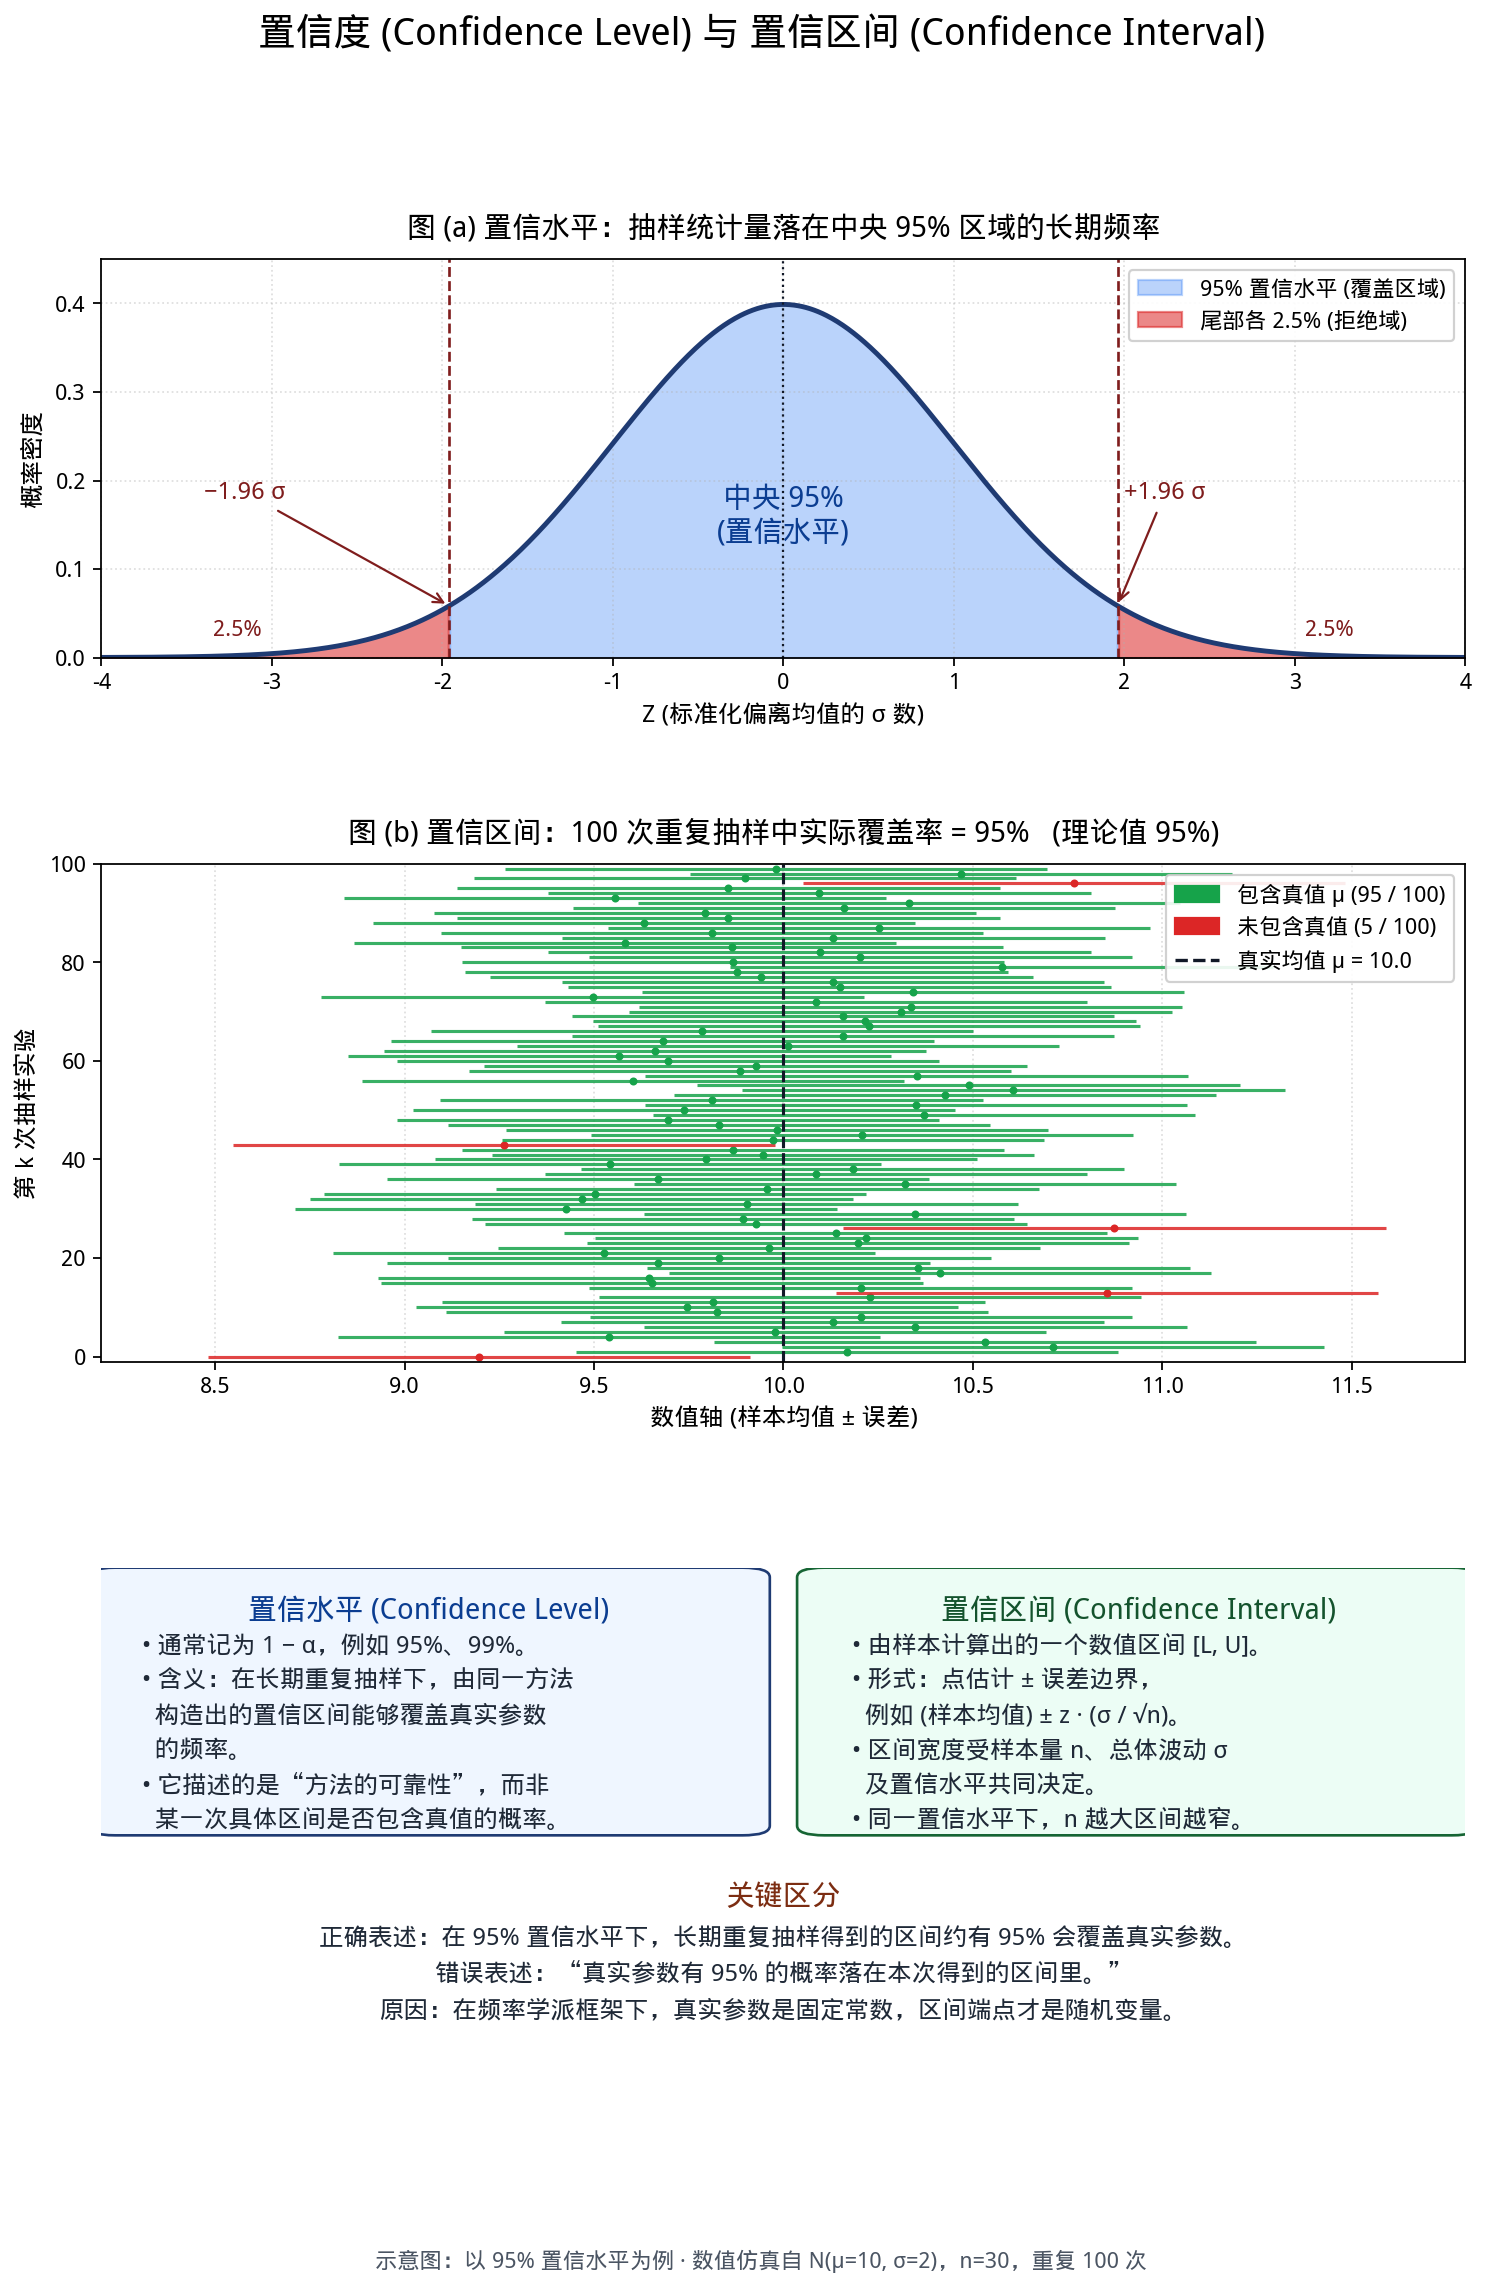
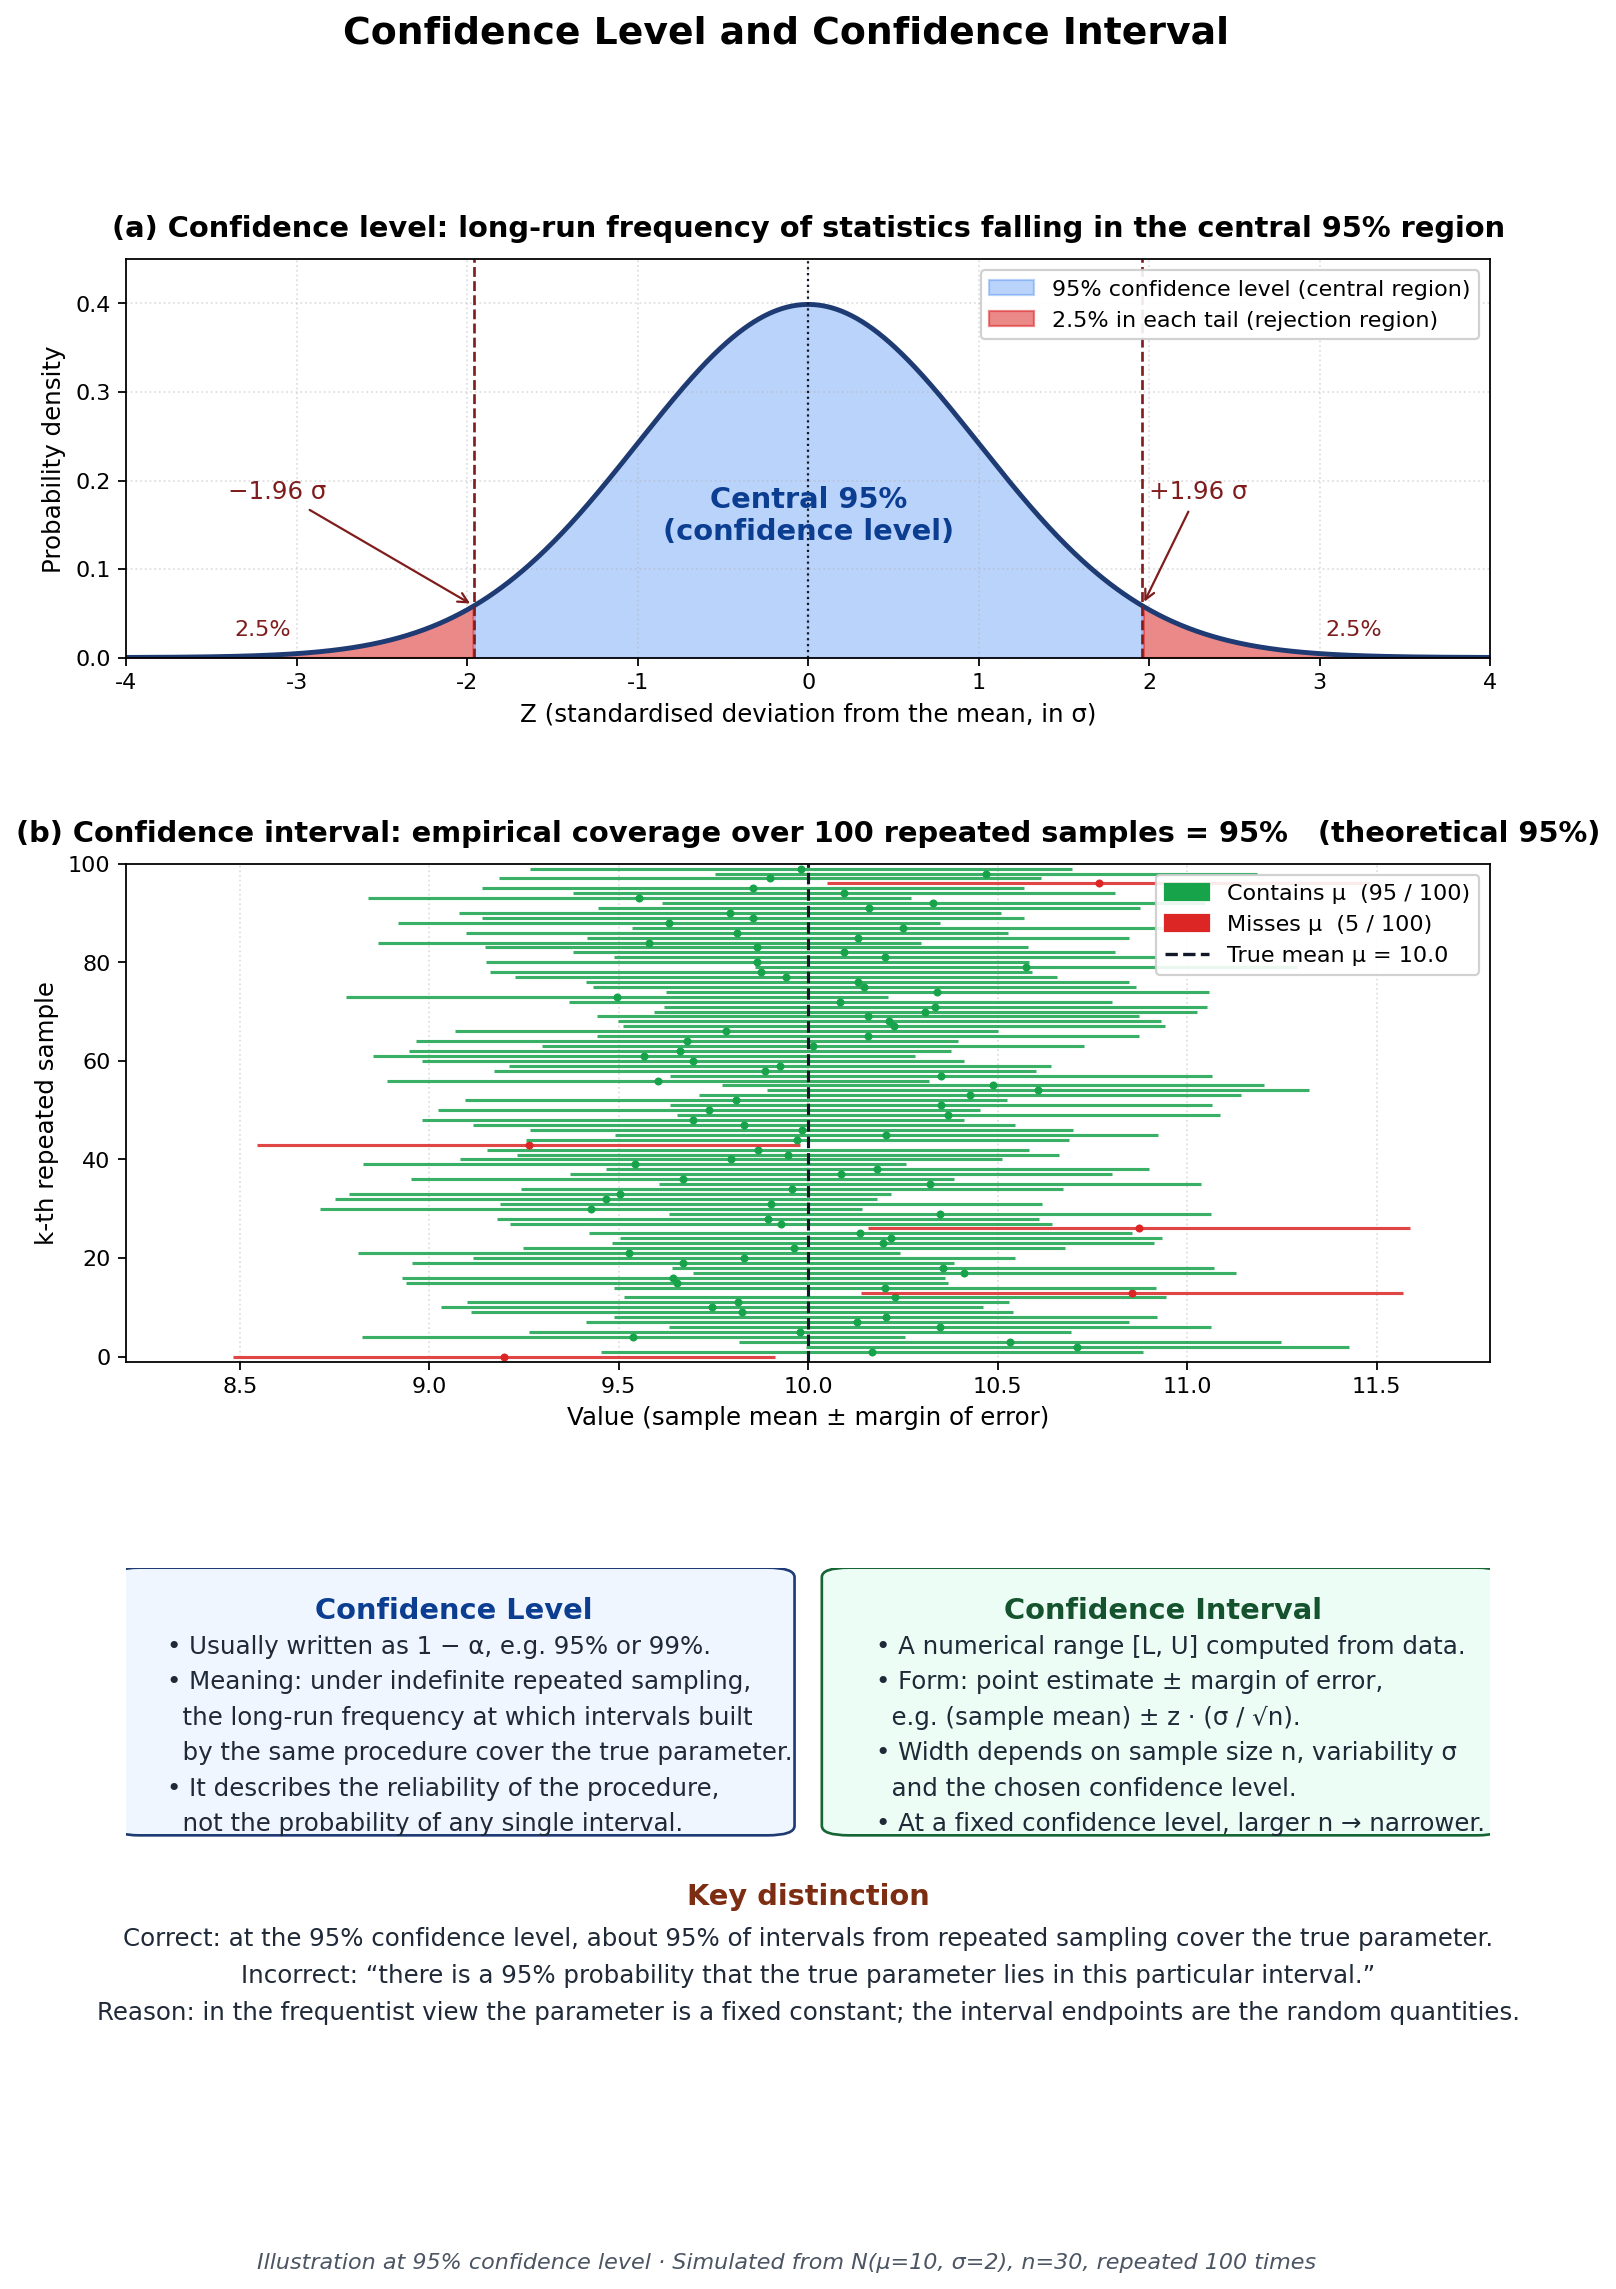
将示意图全部文字翻译为英文
- 顶部正态分布图、中部覆盖率仿真图、底部说明面板与脚注
  的所有文本由中文改为英文。
- 不再依赖文泉驿中文字体，使用 matplotlib 默认 DejaVu Sans
  渲染，并保留 axes.unicode_minus=False 以正确显示减号。
- 图片几何布局、配色与数据仿真参数保持不变。

diff --git a/illustrations/confidence_interval_illustration.py b/illustrations/confidence_interval_illustration.py
@@ -1,5 +1,5 @@
 """Generate an illustrative figure that explains the concepts of
-confidence level and confidence interval.
+confidence level and confidence interval (English version).
 
 Output: confidence_interval_illustration.png in the same directory.
 """
@@ -13,26 +13,14 @@ matplotlib.use("Agg")
 
 import matplotlib.pyplot as plt
 import matplotlib.patches as mpatches
-from matplotlib import font_manager as fm
 import numpy as np
 from scipy import stats
 
 
-def _register_chinese_font() -> str:
-    """Register a CJK-capable TTF/TTC font and return its family name."""
-    candidate_paths = [
-        "/usr/share/fonts/truetype/wqy/wqy-microhei.ttc",
-        "/usr/share/fonts/truetype/droid/DroidSansFallbackFull.ttf",
-    ]
-    for path in candidate_paths:
-        if os.path.exists(path):
-            fm.fontManager.addfont(path)
-            family = fm.FontProperties(fname=path).get_name()
-            plt.rcParams["font.family"] = family
-            plt.rcParams["axes.unicode_minus"] = False
-            return family
+def _configure_fonts() -> None:
+    """Use a default Latin/Greek-capable font and fix the unicode minus."""
+    plt.rcParams["font.family"] = "DejaVu Sans"
     plt.rcParams["axes.unicode_minus"] = False
-    return plt.rcParams["font.family"]
 
 
 def _draw_normal_panel(ax: plt.Axes) -> None:
@@ -49,7 +37,7 @@ def _draw_normal_panel(ax: plt.Axes) -> None:
         y[mask_center],
         color="#3b82f6",
         alpha=0.35,
-        label="95% 置信水平 (覆盖区域)",
+        label="95% confidence level (central region)",
     )
 
     mask_left = x <= -z_crit
@@ -60,7 +48,7 @@ def _draw_normal_panel(ax: plt.Axes) -> None:
         y[mask_right],
         color="#dc2626",
         alpha=0.55,
-        label="尾部各 2.5% (拒绝域)",
+        label="2.5% in each tail (rejection region)",
     )
 
     ax.axvline(-z_crit, color="#7f1d1d", linestyle="--", linewidth=1.2)
@@ -68,7 +56,7 @@ def _draw_normal_panel(ax: plt.Axes) -> None:
     ax.axvline(0.0, color="#111827", linestyle=":", linewidth=1.0)
 
     ax.annotate(
-        f"−1.96 σ",
+        "\u22121.96 \u03c3",
         xy=(-z_crit, stats.norm.pdf(-z_crit)),
         xytext=(-3.4, 0.18),
         fontsize=11,
@@ -76,7 +64,7 @@ def _draw_normal_panel(ax: plt.Axes) -> None:
         arrowprops=dict(arrowstyle="->", color="#7f1d1d", lw=1.0),
     )
     ax.annotate(
-        f"+1.96 σ",
+        "+1.96 \u03c3",
         xy=(z_crit, stats.norm.pdf(z_crit)),
         xytext=(2.0, 0.18),
         fontsize=11,
@@ -87,7 +75,7 @@ def _draw_normal_panel(ax: plt.Axes) -> None:
     ax.text(
         0.0,
         0.16,
-        "中央 95%\n(置信水平)",
+        "Central 95%\n(confidence level)",
         ha="center",
         va="center",
         fontsize=13,
@@ -113,10 +101,10 @@ def _draw_normal_panel(ax: plt.Axes) -> None:
 
     ax.set_xlim(-4.0, 4.0)
     ax.set_ylim(0.0, 0.45)
-    ax.set_xlabel("Z (标准化偏离均值的 σ 数)", fontsize=11)
-    ax.set_ylabel("概率密度", fontsize=11)
+    ax.set_xlabel("Z (standardised deviation from the mean, in \u03c3)", fontsize=11)
+    ax.set_ylabel("Probability density", fontsize=11)
     ax.set_title(
-        "图 (a) 置信水平：抽样统计量落在中央 95% 区域的长期频率",
+        "(a) Confidence level: long-run frequency of statistics falling in the central 95% region",
         fontsize=13,
         fontweight="bold",
         pad=10,
@@ -126,7 +114,7 @@ def _draw_normal_panel(ax: plt.Axes) -> None:
 
 
 def _draw_coverage_panel(ax: plt.Axes) -> None:
-    """Middle panel: simulate many CIs and show how often they cover μ."""
+    """Middle panel: simulate many CIs and show how often they cover mu."""
     rng = np.random.default_rng(seed=20260427)
     true_mu = 10.0
     true_sigma = 2.0
@@ -158,20 +146,25 @@ def _draw_coverage_panel(ax: plt.Axes) -> None:
         color="#111827",
         linestyle="--",
         linewidth=1.4,
-        label=f"真实均值 μ = {true_mu}",
     )
 
     coverage = contains.mean() * 100.0
     n_missed = int((~contains).sum())
 
     green_patch = mpatches.Patch(
-        color="#16a34a", label=f"包含真值 μ ({n_trials - n_missed} / {n_trials})"
+        color="#16a34a",
+        label=f"Contains \u03bc  ({n_trials - n_missed} / {n_trials})",
     )
     red_patch = mpatches.Patch(
-        color="#dc2626", label=f"未包含真值 ({n_missed} / {n_trials})"
+        color="#dc2626",
+        label=f"Misses \u03bc  ({n_missed} / {n_trials})",
     )
     mu_line = plt.Line2D(
-        [0], [0], color="#111827", linestyle="--", label=f"真实均值 μ = {true_mu}"
+        [0],
+        [0],
+        color="#111827",
+        linestyle="--",
+        label=f"True mean \u03bc = {true_mu}",
     )
     ax.legend(
         handles=[green_patch, red_patch, mu_line],
@@ -182,11 +175,11 @@ def _draw_coverage_panel(ax: plt.Axes) -> None:
 
     ax.set_xlim(true_mu - 1.8, true_mu + 1.8)
     ax.set_ylim(-1, n_trials)
-    ax.set_xlabel("数值轴 (样本均值 ± 误差)", fontsize=11)
-    ax.set_ylabel("第 k 次抽样实验", fontsize=11)
+    ax.set_xlabel("Value (sample mean \u00b1 margin of error)", fontsize=11)
+    ax.set_ylabel("k-th repeated sample", fontsize=11)
     ax.set_title(
-        f"图 (b) 置信区间：100 次重复抽样中实际覆盖率 = {coverage:.0f}%"
-        f"   (理论值 95%)",
+        f"(b) Confidence interval: empirical coverage over {n_trials} repeated samples = "
+        f"{coverage:.0f}%   (theoretical 95%)",
         fontsize=13,
         fontweight="bold",
         pad=10,
@@ -213,7 +206,7 @@ def _draw_explanation_panel(ax: plt.Axes) -> None:
     ax.text(
         0.24,
         0.94,
-        "置信水平 (Confidence Level)",
+        "Confidence Level",
         transform=ax.transAxes,
         ha="center",
         va="top",
@@ -225,12 +218,12 @@ def _draw_explanation_panel(ax: plt.Axes) -> None:
         0.03,
         0.86,
         (
-            "• 通常记为 1 − α，例如 95%、99%。\n"
-            "• 含义：在长期重复抽样下，由同一方法\n"
-            "  构造出的置信区间能够覆盖真实参数\n"
-            "  的频率。\n"
-            "• 它描述的是“方法的可靠性”，而非\n"
-            "  某一次具体区间是否包含真值的概率。"
+            "\u2022 Usually written as 1 \u2212 \u03b1, e.g. 95% or 99%.\n"
+            "\u2022 Meaning: under indefinite repeated sampling,\n"
+            "  the long-run frequency at which intervals built\n"
+            "  by the same procedure cover the true parameter.\n"
+            "\u2022 It describes the reliability of the procedure,\n"
+            "  not the probability of any single interval."
         ),
         transform=ax.transAxes,
         ha="left",
@@ -255,7 +248,7 @@ def _draw_explanation_panel(ax: plt.Axes) -> None:
     ax.text(
         0.76,
         0.94,
-        "置信区间 (Confidence Interval)",
+        "Confidence Interval",
         transform=ax.transAxes,
         ha="center",
         va="top",
@@ -267,12 +260,12 @@ def _draw_explanation_panel(ax: plt.Axes) -> None:
         0.55,
         0.86,
         (
-            "• 由样本计算出的一个数值区间 [L, U]。\n"
-            "• 形式：点估计 ± 误差边界，\n"
-            "  例如 (样本均值) ± z · (σ / √n)。\n"
-            "• 区间宽度受样本量 n、总体波动 σ\n"
-            "  及置信水平共同决定。\n"
-            "• 同一置信水平下，n 越大区间越窄。"
+            "\u2022 A numerical range [L, U] computed from data.\n"
+            "\u2022 Form: point estimate \u00b1 margin of error,\n"
+            "  e.g. (sample mean) \u00b1 z \u00b7 (\u03c3 / \u221an).\n"
+            "\u2022 Width depends on sample size n, variability \u03c3\n"
+            "  and the chosen confidence level.\n"
+            "\u2022 At a fixed confidence level, larger n \u2192 narrower."
         ),
         transform=ax.transAxes,
         ha="left",
@@ -285,7 +278,7 @@ def _draw_explanation_panel(ax: plt.Axes) -> None:
     ax.text(
         0.5,
         0.34,
-        "关键区分",
+        "Key distinction",
         transform=ax.transAxes,
         ha="center",
         va="top",
@@ -297,9 +290,9 @@ def _draw_explanation_panel(ax: plt.Axes) -> None:
         0.5,
         0.25,
         (
-            "正确表述：在 95% 置信水平下，长期重复抽样得到的区间约有 95% 会覆盖真实参数。\n"
-            "错误表述：“真实参数有 95% 的概率落在本次得到的区间里。”\n"
-            "原因：在频率学派框架下，真实参数是固定常数，区间端点才是随机变量。"
+            "Correct: at the 95% confidence level, about 95% of intervals from repeated sampling cover the true parameter.\n"
+            "Incorrect: \u201cthere is a 95% probability that the true parameter lies in this particular interval.\u201d\n"
+            "Reason: in the frequentist view the parameter is a fixed constant; the interval endpoints are the random quantities."
         ),
         transform=ax.transAxes,
         ha="center",
@@ -311,7 +304,7 @@ def _draw_explanation_panel(ax: plt.Axes) -> None:
 
 
 def main() -> None:
-    _register_chinese_font()
+    _configure_fonts()
 
     fig = plt.figure(figsize=(11.0, 14.5))
     gs = fig.add_gridspec(
@@ -325,7 +318,7 @@ def main() -> None:
     ax_bot = fig.add_subplot(gs[2, 0])
 
     fig.suptitle(
-        "置信度 (Confidence Level) 与 置信区间 (Confidence Interval)",
+        "Confidence Level and Confidence Interval",
         fontsize=17,
         fontweight="bold",
         y=0.985,
@@ -338,7 +331,7 @@ def main() -> None:
     fig.text(
         0.5,
         0.012,
-        "示意图：以 95% 置信水平为例 · 数值仿真自 N(μ=10, σ=2)，n=30，重复 100 次",
+        "Illustration at 95% confidence level \u00b7 Simulated from N(\u03bc=10, \u03c3=2), n=30, repeated 100 times",
         ha="center",
         va="bottom",
         fontsize=10,
